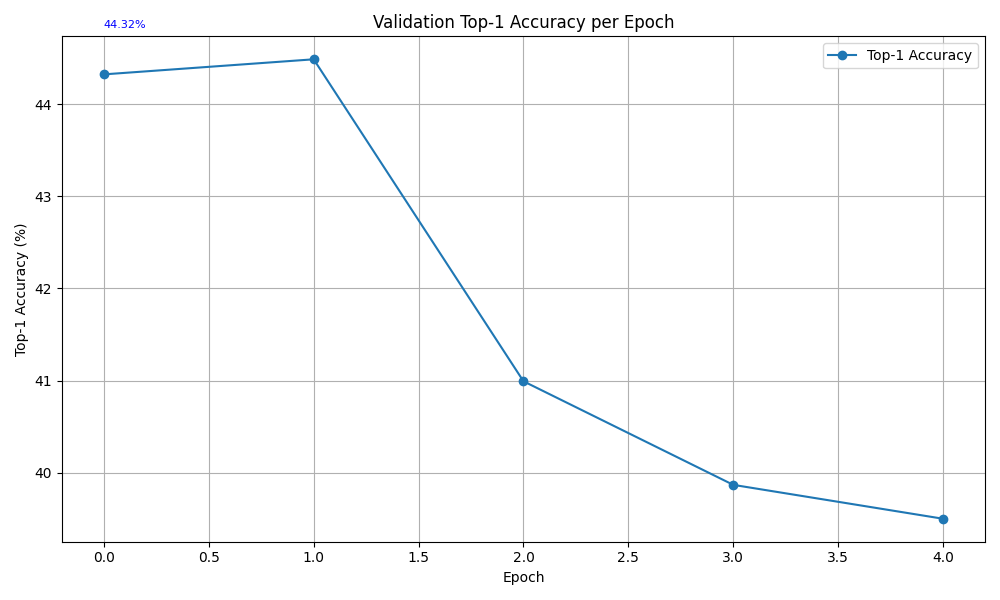
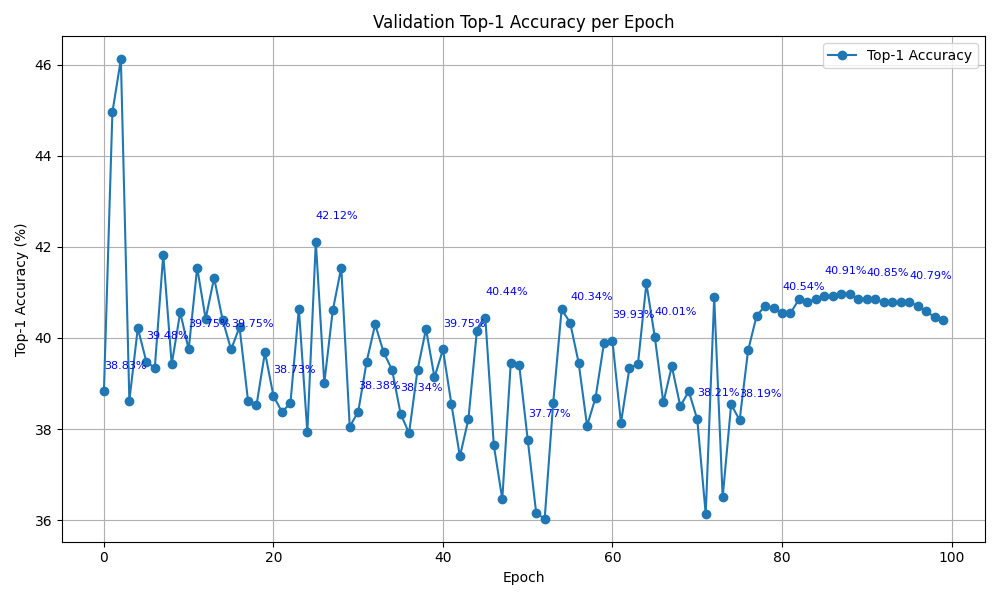
ViT 100 Epoch

diff --git a/CSE327/Finalproject/train_ViT.py b/CSE327/Finalproject/train_ViT.py
@@ -20,7 +20,7 @@ print(primary_genres.value_counts())
 csv_path = './final_dataset.csv'
 img_root = './'
 num_classes = 25
-epochs = 5
+epochs = 100
 batch_size = 32
 learning_rate = 1e-4
 
